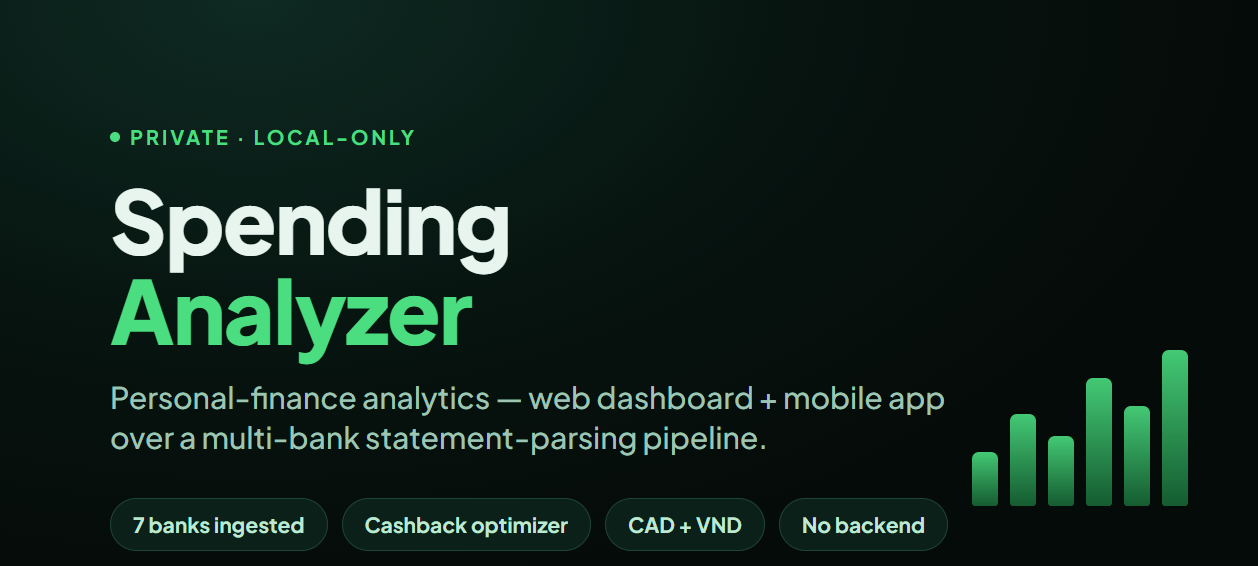
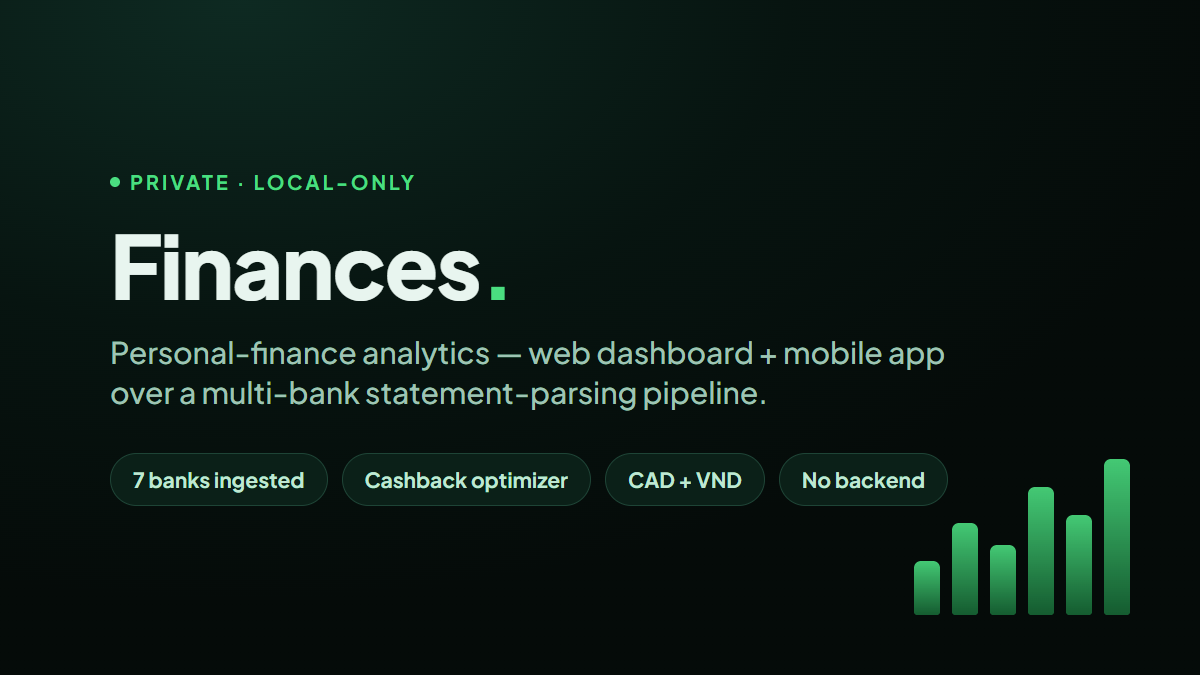
Rename Spending Analyzer card to Finances

diff --git a/src/portfolio.js b/src/portfolio.js
@@ -788,7 +788,7 @@ const projects = {
         "projects/spendinganalyzer_7.webp",
       ],
       videos: [],
-      name: "Spending Analyzer",
+      name: "Finances",
       badge: { text: "Personal Tool", color: "info", icon: "📊" },
       briefDescription:
         "Privacy-first personal-finance analytics: a Next.js web dashboard and React Native mobile app over a custom multi-bank statement-parsing pipeline — all data processed offline, no backend.",